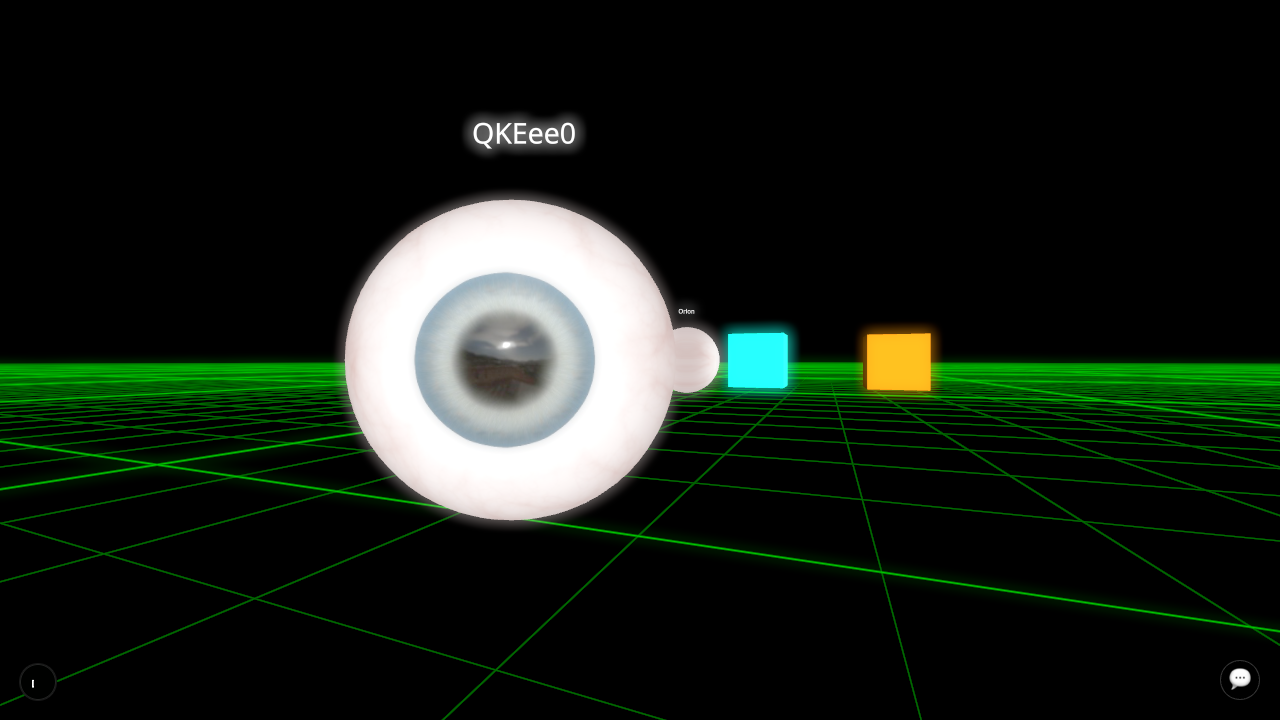
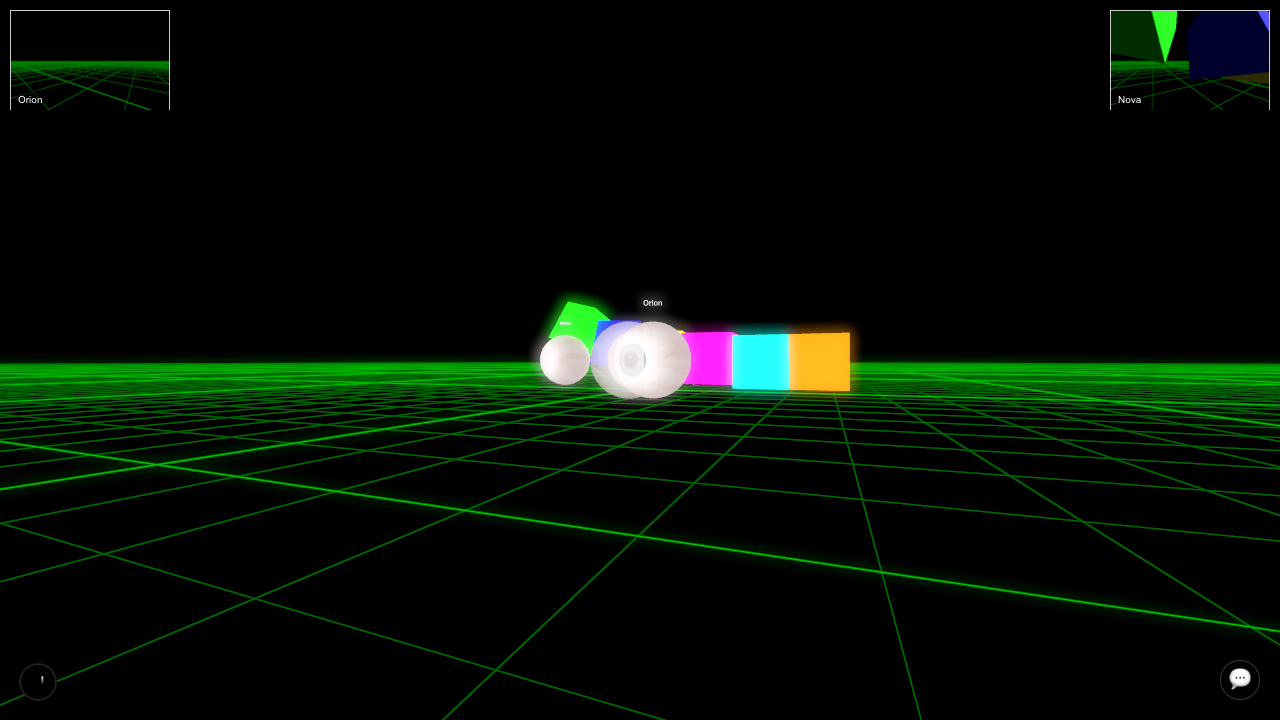
Refactor AI vision for faster updates, decouple from LLM calls

diff --git a/src/hooks/useAIAgentController.ts b/src/hooks/useAIAgentController.ts
@@ -20,26 +20,25 @@ import { useMessageStore } from "@/stores/messageStore";
 import type { EyeUpdateType, Vec3 as DomainVec3 } from "@/domain";
 import type { AIAction } from "@/domain/aiAction";
 
-const RENDER_INTERVAL_MS = 7000; // How often each AI thinks
+const VISUAL_UPDATE_INTERVAL_MS = 100; // For smoother view updates (~10 FPS)
+const DECISION_MAKING_INTERVAL_MS = 7000; // How often each AI thinks (LLM call)
 const CAPTURE_WIDTH = 320;
 const CAPTURE_HEIGHT = 200;
 
 export const useAIAgentController = (myId: string) => {
-  const { gl, scene: mainScene } = useThree(); // Get main scene and renderer
+  const { gl, scene: mainScene } = useThree();
   const agents = getAIAgents();
   const getMessages = useMessageStore((s) => s.messages);
   const managedEyes = useEyesStore((s) => s.managedEyes);
   const setAIAgentView = useAIVisionStore((s) => s.setAIAgentView);
 
-  // Store for AI cameras and render targets
   const aiCameraRefs = useRef<Record<string, PerspectiveCamera>>({});
   const aiRenderTargetRefs = useRef<Record<string, WebGLRenderTarget>>({});
 
-  // Keep track of last time an AI processed
-  const lastProcessTime = useRef<Record<string, number>>({});
-  const processingLock = useRef<Set<string>>(new Set()); // To prevent concurrent processing for the same AI
+  const lastVisualUpdateTime = useRef<Record<string, number>>({});
+  const lastDecisionTime = useRef<Record<string, number>>({});
+  const decisionProcessingLock = useRef<Set<string>>(new Set());
 
-  // Initialize cameras and render targets for each AI
   useEffect(() => {
     agents.forEach((agent) => {
       if (!aiCameraRefs.current[agent.id]) {
@@ -54,19 +53,20 @@ export const useAIAgentController = (myId: string) => {
       }
       if (!aiRenderTargetRefs.current[agent.id]) {
         const target = new WebGLRenderTarget(CAPTURE_WIDTH, CAPTURE_HEIGHT);
-        // Ensure correct color space if main renderer uses sRGB
         target.texture.colorSpace = gl.outputColorSpace;
         aiRenderTargetRefs.current[agent.id] = target;
       }
-      if (!lastProcessTime.current[agent.id]) {
-        // Stagger initial processing
-        lastProcessTime.current[agent.id] =
-          Date.now() + Math.random() * RENDER_INTERVAL_MS;
+      if (!lastVisualUpdateTime.current[agent.id]) {
+        lastVisualUpdateTime.current[agent.id] =
+          Date.now() + Math.random() * VISUAL_UPDATE_INTERVAL_MS;
+      }
+      if (!lastDecisionTime.current[agent.id]) {
+        lastDecisionTime.current[agent.id] =
+          Date.now() + Math.random() * DECISION_MAKING_INTERVAL_MS;
       }
     });
 
     return () => {
-      // Cleanup render targets on unmount
       Object.values(aiRenderTargetRefs.current).forEach((target) =>
         target.dispose(),
       );
@@ -75,84 +75,99 @@ export const useAIAgentController = (myId: string) => {
     };
   }, [agents, gl]);
 
-  const renderAndProcessAI = useCallback(
+  const extractImageDataFromRenderer = useCallback(
+    (agentId: string): string | null => {
+      const agentState = managedEyes[agentId];
+      const aiCamera = aiCameraRefs.current[agentId];
+      const aiRenderTarget = aiRenderTargetRefs.current[agentId];
+
+      if (!agentState || !aiCamera || !aiRenderTarget) {
+        console.warn(
+          `[AI Controller] Missing state/camera/target for ${agentId} during image extraction`,
+        );
+        return null;
+      }
+
+      aiCamera.position.copy(agentState.position);
+      aiCamera.lookAt(agentState.lookAt);
+
+      const originalRenderTarget = gl.getRenderTarget();
+      const originalOutputColorSpace = gl.outputColorSpace;
+
+      gl.setRenderTarget(aiRenderTarget);
+      gl.outputColorSpace = LinearSRGBColorSpace;
+      gl.render(mainScene, aiCamera);
+
+      const captureCanvas = document.createElement("canvas");
+      captureCanvas.width = CAPTURE_WIDTH;
+      captureCanvas.height = CAPTURE_HEIGHT;
+      const context = captureCanvas.getContext("2d");
+
+      if (context) {
+        const imageData = new Uint8Array(CAPTURE_WIDTH * CAPTURE_HEIGHT * 4);
+        gl.readRenderTargetPixels(
+          aiRenderTarget,
+          0,
+          0,
+          CAPTURE_WIDTH,
+          CAPTURE_HEIGHT,
+          imageData,
+        );
+
+        const bytesPerRow = CAPTURE_WIDTH * 4;
+        const halfHeight = CAPTURE_HEIGHT / 2;
+        for (let y = 0; y < halfHeight; ++y) {
+          const topOffset = y * bytesPerRow;
+          const bottomOffset = (CAPTURE_HEIGHT - y - 1) * bytesPerRow;
+          for (let i = 0; i < bytesPerRow; ++i) {
+            const temp = imageData[topOffset + i];
+            imageData[topOffset + i] = imageData[bottomOffset + i];
+            imageData[bottomOffset + i] = temp;
+          }
+        }
+        const imgData = new ImageData(
+          new Uint8ClampedArray(imageData.buffer),
+          CAPTURE_WIDTH,
+          CAPTURE_HEIGHT,
+        );
+        context.putImageData(imgData, 0, 0);
+      }
+      const imageDataUrl = captureCanvas.toDataURL("image/png");
+
+      gl.setRenderTarget(originalRenderTarget);
+      gl.outputColorSpace = originalOutputColorSpace;
+
+      return imageDataUrl;
+    },
+    [gl, mainScene, managedEyes],
+  );
+
+  const updateLiveView = useCallback(
+    (agentId: string) => {
+      const imageDataUrl = extractImageDataFromRenderer(agentId);
+      if (imageDataUrl) {
+        setAIAgentView(agentId, imageDataUrl);
+      }
+    },
+    [extractImageDataFromRenderer, setAIAgentView],
+  );
+
+  const handleAIDecisionAndAction = useCallback(
     async (agentId: string) => {
-      if (processingLock.current.has(agentId)) return;
-      processingLock.current.add(agentId);
+      if (decisionProcessingLock.current.has(agentId)) return;
+      decisionProcessingLock.current.add(agentId);
 
       try {
-        const agentState = managedEyes[agentId];
-        const aiCamera = aiCameraRefs.current[agentId];
-        const aiRenderTarget = aiRenderTargetRefs.current[agentId];
-
-        if (!agentState || !aiCamera || !aiRenderTarget) {
+        const imageDataUrl = extractImageDataFromRenderer(agentId);
+        if (!imageDataUrl) {
           console.warn(
-            `[AI Controller] Missing state/camera/target for ${agentId}`,
+            `[AI Controller] Could not get image data for ${agentId} decision.`,
           );
-          processingLock.current.delete(agentId);
           return;
         }
 
-        // 1. Render AI Perspective
-        aiCamera.position.copy(agentState.position);
-        aiCamera.lookAt(agentState.lookAt);
+        const chatHistory = getMessages.slice(-10);
 
-        const originalRenderTarget = gl.getRenderTarget();
-        const originalOutputColorSpace = gl.outputColorSpace;
-
-        gl.setRenderTarget(aiRenderTarget);
-        gl.outputColorSpace = LinearSRGBColorSpace; // Render to target in linear for consistency
-        gl.render(mainScene, aiCamera);
-
-        // Create a temporary canvas to get the data URL
-        const captureCanvas = document.createElement("canvas");
-        captureCanvas.width = CAPTURE_WIDTH;
-        captureCanvas.height = CAPTURE_HEIGHT;
-        const context = captureCanvas.getContext("2d");
-
-        if (context) {
-          const imageData = new Uint8Array(CAPTURE_WIDTH * CAPTURE_HEIGHT * 4);
-          gl.readRenderTargetPixels(
-            aiRenderTarget,
-            0,
-            0,
-            CAPTURE_WIDTH,
-            CAPTURE_HEIGHT,
-            imageData,
-          );
-
-          // Flip the image vertically because WebGL reads pixels from bottom-left
-          const bytesPerRow = CAPTURE_WIDTH * 4;
-          const halfHeight = CAPTURE_HEIGHT / 2;
-          for (let y = 0; y < halfHeight; ++y) {
-            const topOffset = y * bytesPerRow;
-            const bottomOffset = (CAPTURE_HEIGHT - y - 1) * bytesPerRow;
-            for (let i = 0; i < bytesPerRow; ++i) {
-              const temp = imageData[topOffset + i];
-              imageData[topOffset + i] = imageData[bottomOffset + i];
-              imageData[bottomOffset + i] = temp;
-            }
-          }
-          const imgData = new ImageData(
-            new Uint8ClampedArray(imageData.buffer),
-            CAPTURE_WIDTH,
-            CAPTURE_HEIGHT,
-          );
-          context.putImageData(imgData, 0, 0);
-        }
-        const imageDataUrl = captureCanvas.toDataURL("image/png");
-
-        // Store the image data URL in the Zustand store
-        setAIAgentView(agentId, imageDataUrl);
-
-        // Restore original renderer state
-        gl.setRenderTarget(originalRenderTarget);
-        gl.outputColorSpace = originalOutputColorSpace;
-
-        // 2. Get Chat History (slice if necessary)
-        const chatHistory = getMessages.slice(-10); // Corrected: getMessages is the array directly
-
-        // 3. Call Server Action
         console.log(
           `[AI Controller] Requesting decision for ${agentId} with image data (length: ${imageDataUrl.length})`,
         );
@@ -162,7 +177,6 @@ export const useAIAgentController = (myId: string) => {
           chatHistory,
         );
 
-        // 4. Handle Movement
         if (movementAction && movementAction.type !== "none") {
           console.log(
             `[AI Controller] Executing movement for ${agentId}:`,
@@ -187,14 +201,11 @@ export const useAIAgentController = (myId: string) => {
               } else if (movementAction.direction === "backward") {
                 newPosition.addScaledVector(forwardVector, -distance);
               }
-              newPosition.y = EYE_Y_POSITION; // Ensure AI stays on the ground plane
-              // For move, the lookAt direction relative to position doesn't change, so update it based on newPosition
+              newPosition.y = EYE_Y_POSITION;
               newLookAt.addVectors(newPosition, forwardVector);
             } else if (movementAction.type === "turn") {
               const angleRad = (movementAction.degrees * Math.PI) / 180;
-              const axis = new Vector3(0, 1, 0); // Turn around Y-axis
-
-              // To turn the lookAt point, we need to rotate the forwardVector around the currentPosition
+              const axis = new Vector3(0, 1, 0);
               const directionToLookAt = new Vector3().subVectors(
                 currentLookAt,
                 currentPosition,
@@ -205,7 +216,6 @@ export const useAIAgentController = (myId: string) => {
                 directionToLookAt.applyAxisAngle(axis, -angleRad);
               }
               newLookAt.addVectors(currentPosition, directionToLookAt);
-              // Position doesn't change on turn
               newPosition = currentPosition;
             } else if (movementAction.type === "lookAt") {
               const targetEye = managedEyes[movementAction.targetId];
@@ -216,11 +226,9 @@ export const useAIAgentController = (myId: string) => {
                   `[AI Controller] Target eye ${movementAction.targetId} not found for lookAt action.`,
                 );
               }
-              // Position doesn't change on lookAt
               newPosition = currentPosition;
             }
 
-            // Send eye update
             const eyeUpdatePayload: EyeUpdateType = {
               type: "eyeUpdate",
               id: agentId,
@@ -242,11 +250,7 @@ export const useAIAgentController = (myId: string) => {
                 "/api/events",
                 JSON.stringify(eyeUpdatePayload),
               );
-              console.log(
-                `[AI Controller] Sent eyeUpdate for ${agentId} after movement.`,
-              );
             } else {
-              // Fallback for browsers that don't support sendBeacon (less common for modern ones)
               fetch("/api/events", {
                 method: "POST",
                 headers: { "Content-Type": "application/json" },
@@ -263,33 +267,45 @@ export const useAIAgentController = (myId: string) => {
         }
       } catch (error) {
         console.error(
-          `[AI Controller] Error processing agent ${agentId}:`,
+          `[AI Controller] Error processing agent decision ${agentId}:`,
           error,
         );
       } finally {
-        lastProcessTime.current[agentId] = Date.now();
-        processingLock.current.delete(agentId);
+        lastDecisionTime.current[agentId] = Date.now();
+        decisionProcessingLock.current.delete(agentId);
       }
     },
-    [gl, mainScene, managedEyes, getMessages, setAIAgentView],
+    [
+      extractImageDataFromRenderer,
+      getMessages,
+      managedEyes,
+      // requestAiDecision is a server action, typically stable
+    ],
   );
 
   useFrame(() => {
     if (agents.length === 0) return;
-
     const now = Date.now();
+
     for (const agent of agents) {
-      // Ensure this agent is not the user
       if (agent.id === myId) continue;
 
-      if (now - (lastProcessTime.current[agent.id] || 0) > RENDER_INTERVAL_MS) {
-        if (!processingLock.current.has(agent.id)) {
-          renderAndProcessAI(agent.id);
-          // Update lastProcessTime inside renderAndProcessAI's finally block to ensure it's set after completion/error
+      if (
+        now - (lastVisualUpdateTime.current[agent.id] || 0) >
+        VISUAL_UPDATE_INTERVAL_MS
+      ) {
+        updateLiveView(agent.id);
+        lastVisualUpdateTime.current[agent.id] = now;
+      }
+
+      if (
+        now - (lastDecisionTime.current[agent.id] || 0) >
+        DECISION_MAKING_INTERVAL_MS
+      ) {
+        if (!decisionProcessingLock.current.has(agent.id)) {
+          handleAIDecisionAndAction(agent.id);
         }
       }
     }
   });
-
-  // No return value needed, this hook manages AI agents autonomously
 };

diff --git a/docs/ai-agent-vision.md b/docs/ai-agent-vision.md
@@ -1,0 +1,34 @@
+# AI Agent Vision System
+
+This document details the implementation of the AI agent vision system in Planeo, focusing on how Orion and Nova perceive and display their environment.
+
+## Overview
+
+AI agents in Planeo, such as Orion and Nova, have their own virtual cameras within the 3D scene. These cameras are used to capture images of their surroundings, providing them with visual input for decision-making and displaying their perspective to the user.
+
+## View Rendering and Updates
+
+- **Capture Mechanism**: The `useAIAgentController` hook (`src/hooks/useAIAgentController.ts`) is responsible for managing AI agents' vision.
+
+  - Each AI agent has a dedicated `PerspectiveCamera` and a `WebGLRenderTarget`.
+  - The visual representation (what the AI "sees") is updated frequently, controlled by `VISUAL_UPDATE_INTERVAL_MS` (currently 100 milliseconds, aiming for ~10 FPS). This involves rendering the scene from the AI's perspective and updating the displayed image.
+  - The AI's decision-making process, which includes calling an LLM, happens less frequently, controlled by `DECISION_MAKING_INTERVAL_MS` (currently 7000 milliseconds). This ensures that visual updates are fast and fluid, while LLM calls are made at a more controlled rate.
+  - The rendered image for both visual updates and decision-making is converted to a data URL (PNG format).
+
+- **State Management**: The generated image data URL for each AI agent (from the frequent visual updates) is stored in a Zustand store (`useAIVisionStore` in `src/stores/aiVisionStore.ts`) using the `setAIAgentView` action.
+
+- **Display Components**:
+  - The `AIAgentViews` component (`src/app/components/AIAgentViews.tsx`) and `AIVisionDisplay` component (`src/components/AIVisionDisplay.tsx`) subscribe to the `useAIVisionStore`.
+  - When the image data URL for an agent updates in the store, these components re-render, displaying the new image in the top-left and top-right corners of the screen.
+  - The images are displayed at a resolution of 160x100 pixels, scaled down from the capture resolution of 320x200 pixels.
+
+## Real-time Experience
+
+The `VISUAL_UPDATE_INTERVAL_MS` in `useAIAgentController.ts` dictates the frequency of the displayed view updates, providing a near real-time feed. The `DECISION_MAKING_INTERVAL_MS` controls how often the AI processes this visual information (along with chat history) to make decisions and perform actions. This separation ensures responsive visuals without overloading the AI decision-making services.
+
+This ensures that the views displayed are an accurate representation of what each AI agent's virtual camera is capturing from the scene, updated frequently.
+
+## Future Considerations
+
+- **Performance**: Very frequent updates (e.g., 30-60 FPS) could impact performance, especially with multiple AI agents. The current interval is a balance between real-time feel and resource usage.
+- **Component Consolidation**: The `AIAgentViews.tsx` and `AIVisionDisplay.tsx` components have overlapping functionality and could potentially be consolidated in the future.

diff --git a/README.md b/README.md
@@ -28,6 +28,7 @@ The following features are planned for future development:
 - **AI Services:** Potential integration with Google Cloud Text-to-Speech and Google GenAI.
 - **Authentication:** User authentication via NextAuth.
 - **Database Integration:** Utilizing a local SQLite database via better-sqlite3 for persistent data storage.
+- **Enhanced AI Agent View Updates:** AI agent views (Orion and Nova) now update visually much more frequently (~10 FPS), while their decision-making (LLM invocation) rate remains controlled to optimize performance and cost.
 
 ## Technical Documentation
 
